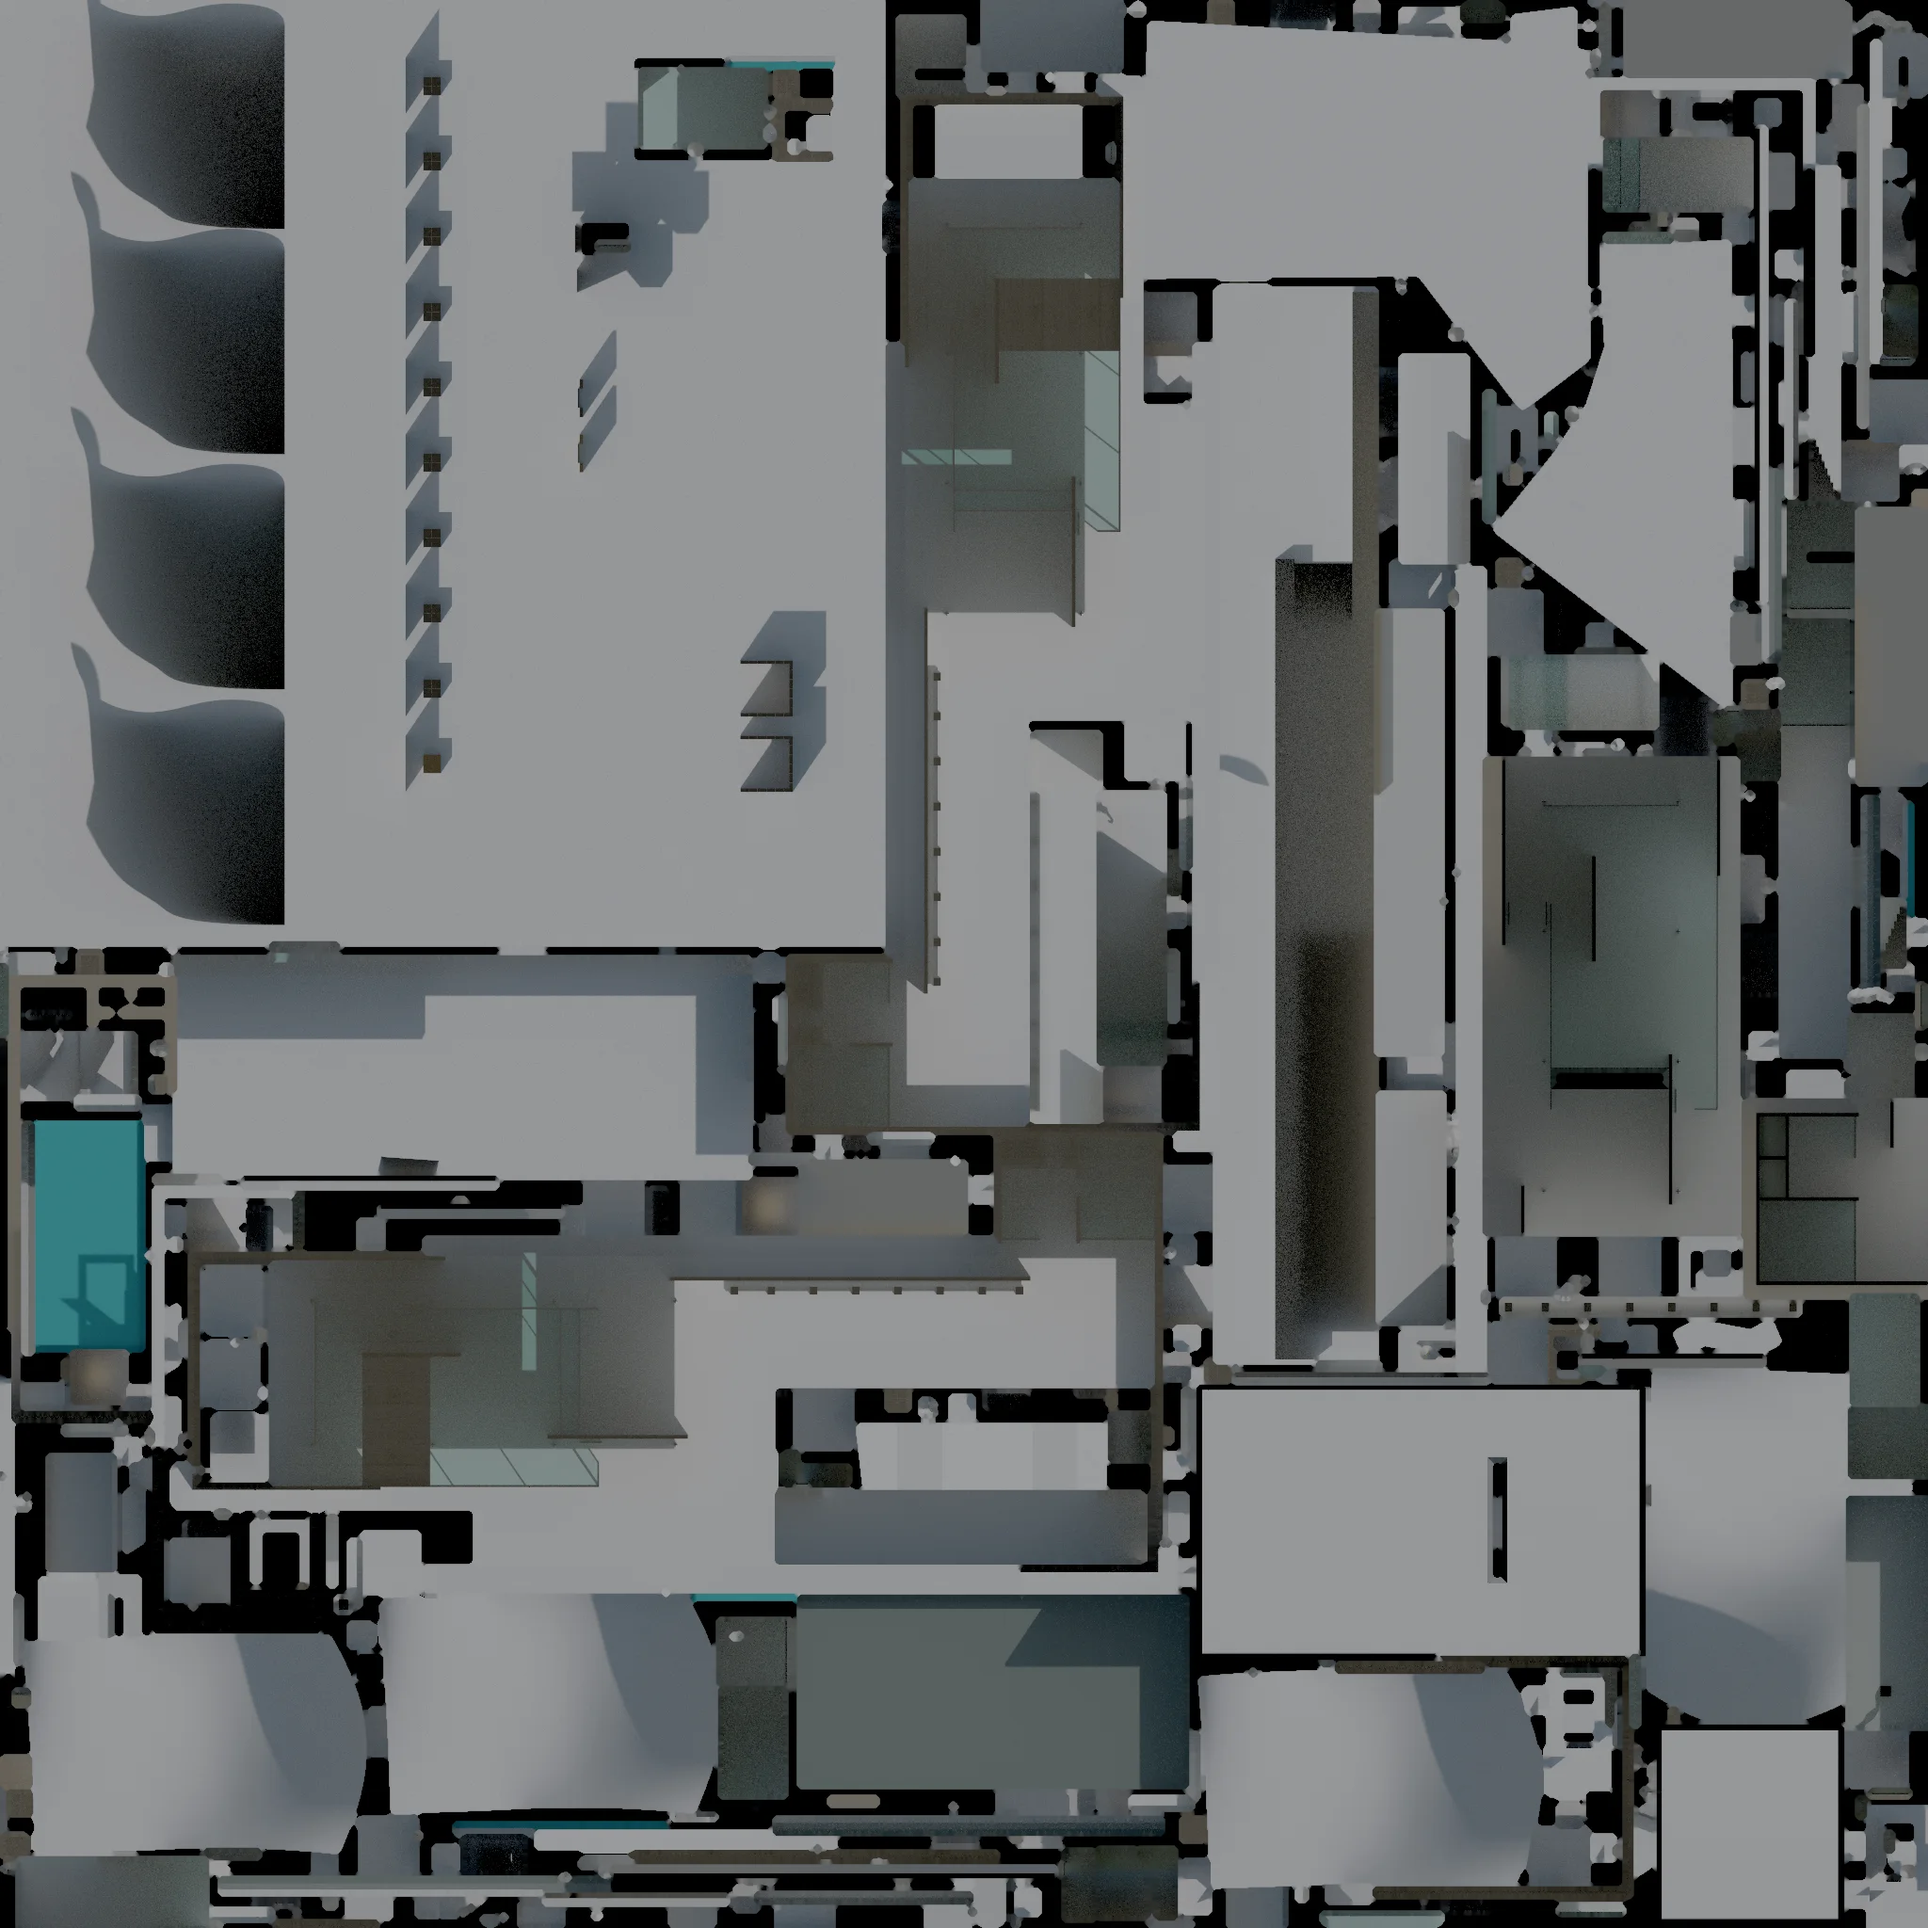
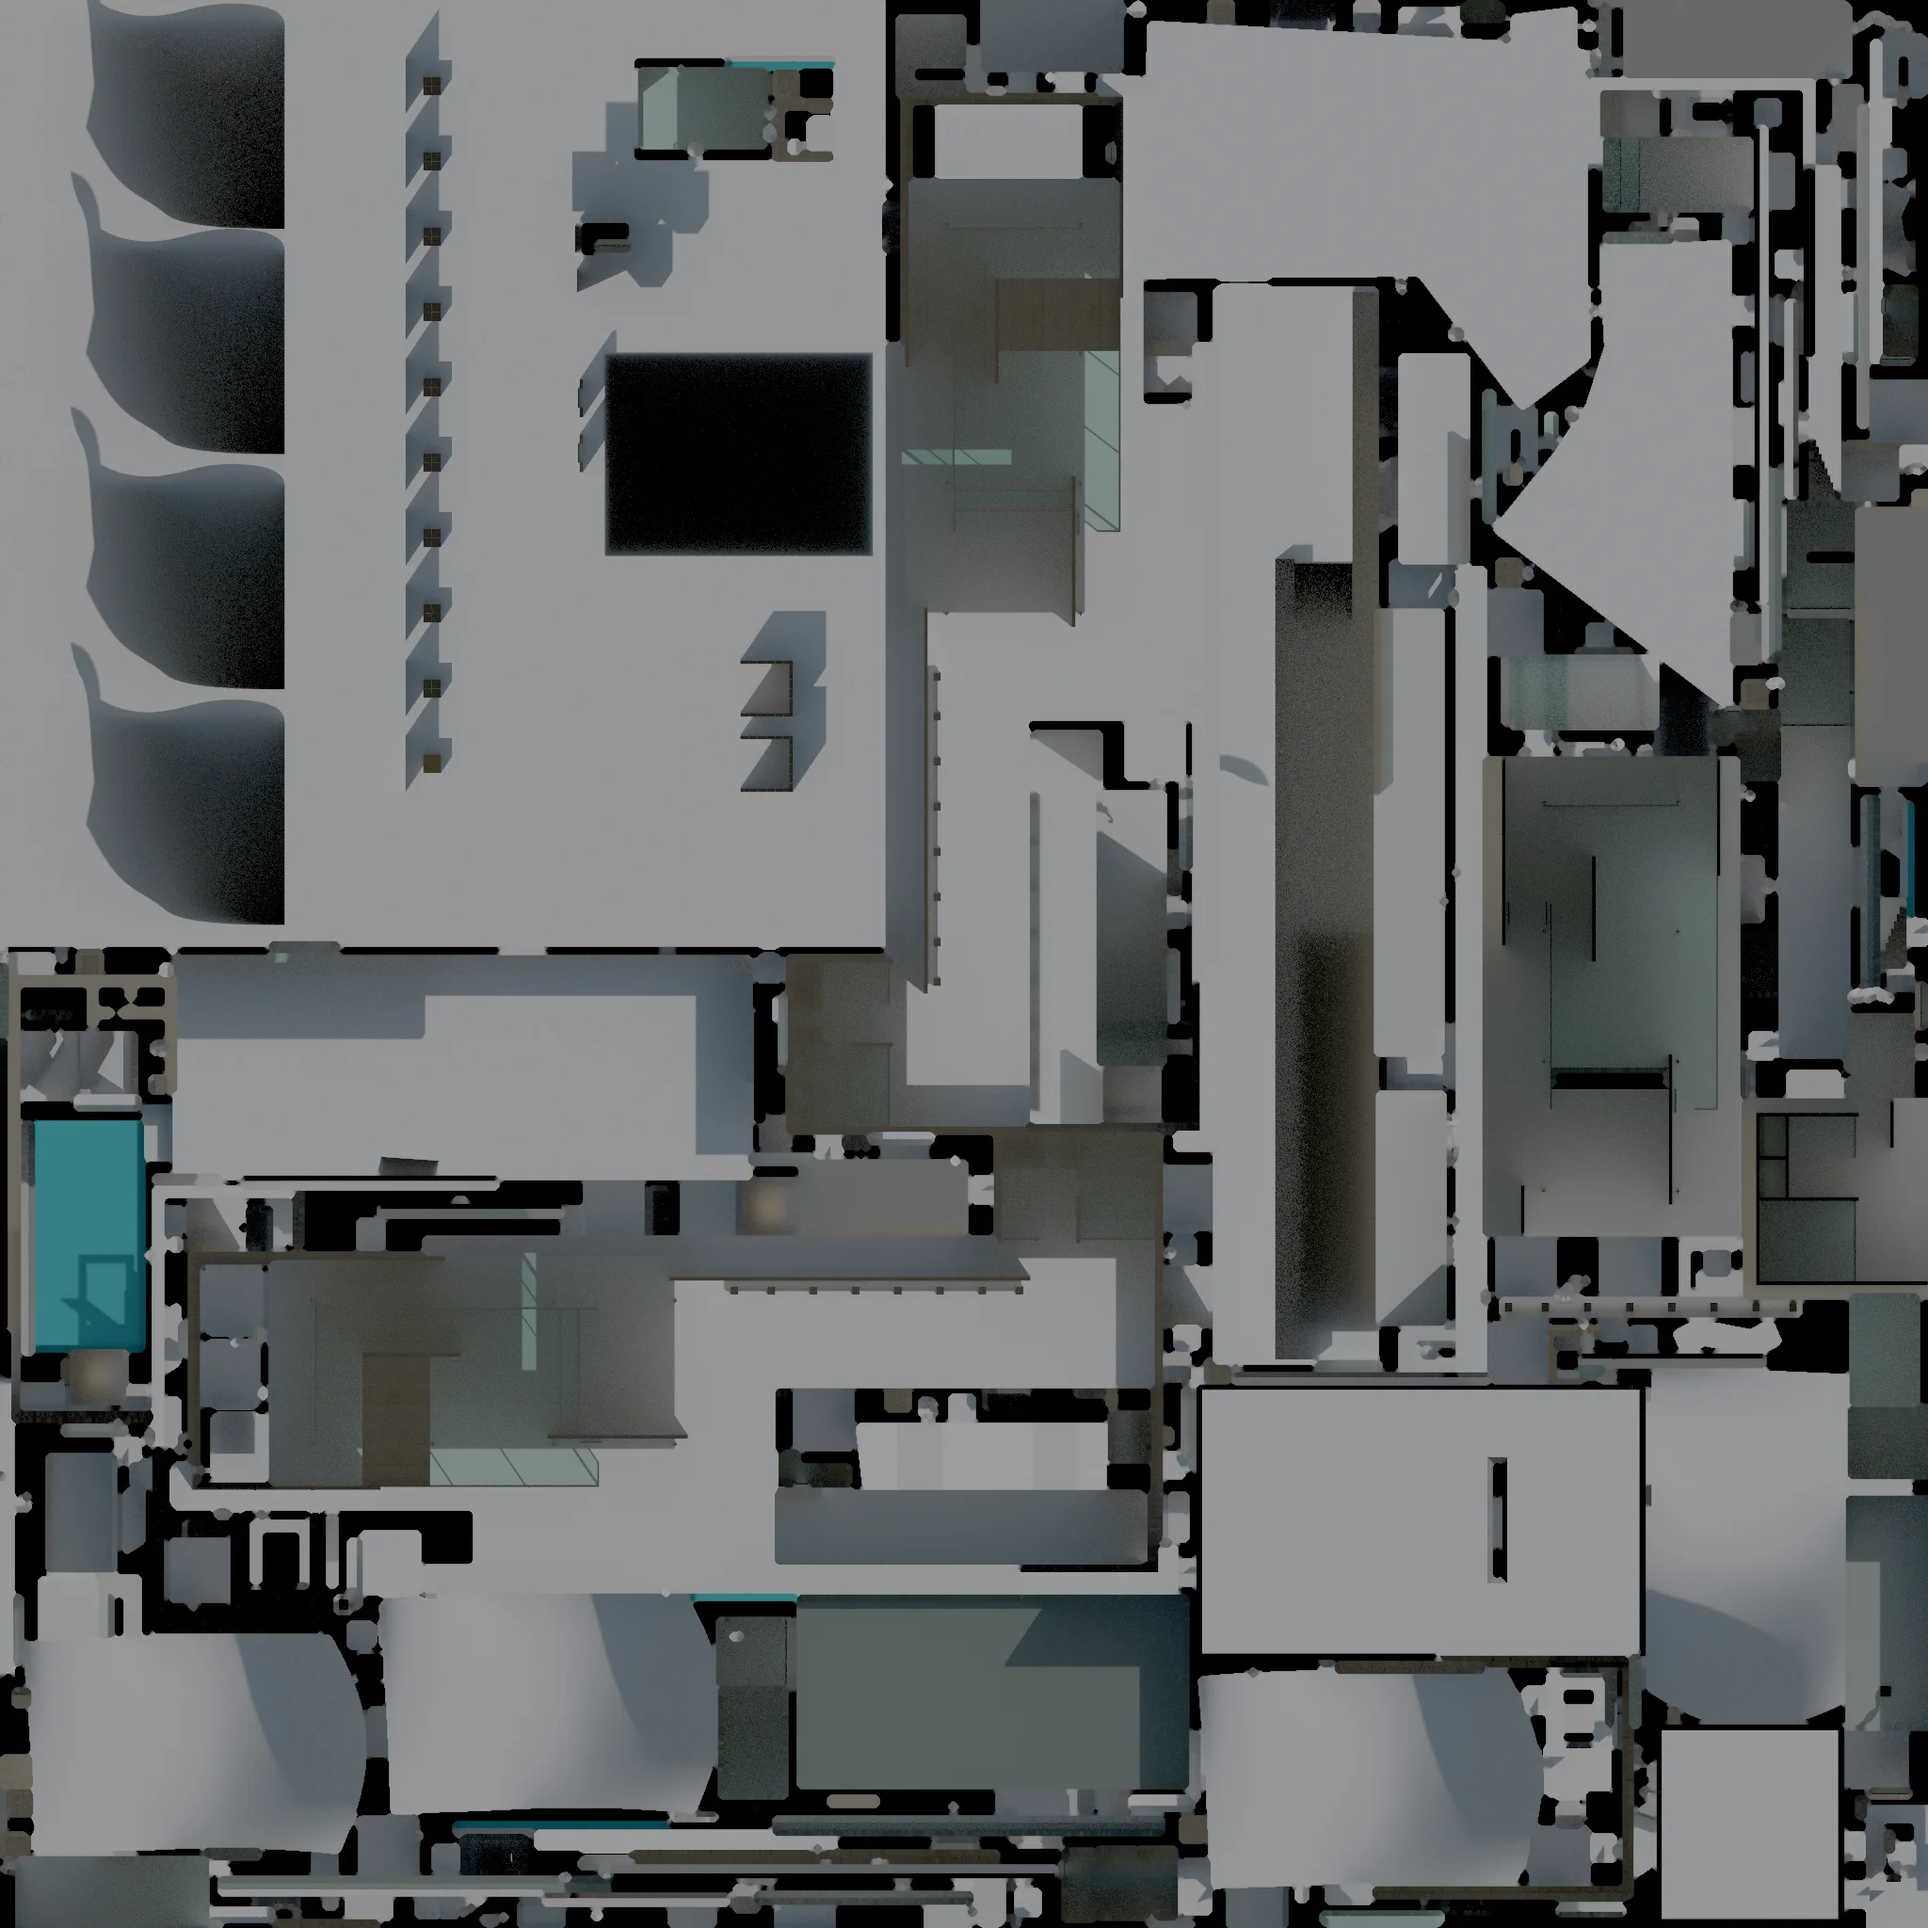
Draw grass where ambient occlusion is on, and the flat test lawn
Ambient occlusion draws the scene itself, and drew only solid surfaces
under its darkening, so grass, on the sway layer, was missing on every
device that works ambient occlusion out. Software rendering hid it: there
the safety net turns ambient occlusion off. Also the re-exported test
environment, with a flat lawn and the start spot in front of the hill,
and its light. See #25.

Changed region(s): [[0.3125, 0.1562, 0.4688, 0.3125]]

diff --git a/src/occlusion.ts b/src/occlusion.ts
@@ -331,6 +331,13 @@ for (const setting of Object.keys(OCCLUSION_DESCRIBED) as (keyof OcclusionSettin
  */
 const OVER_DARKENING = [LAYERS.glass];
 
+/**
+ * The kinds of surface drawn under the darkening and darkened by it. Things
+ * that sway take no part in working it out, since they move and are thin,
+ * but are darkened like the ground behind them (#25).
+ */
+const UNDER_DARKENING = [LAYERS.solid, LAYERS.sway];
+
 /** Seconds a method's darkening takes to fade in once it has arrived (#14). */
 const FADE_IN_SECONDS = 1;
 
@@ -512,6 +519,8 @@ export class AmbientOcclusion {
       renderer.setClearColor(0xffffff);
       renderer.clear();
     } else {
+      camera.layers.disableAll();
+      for (const layer of UNDER_DARKENING) camera.layers.enable(layer);
       renderer.render(scene, camera);
     }
     const autoClear = renderer.autoClear;
